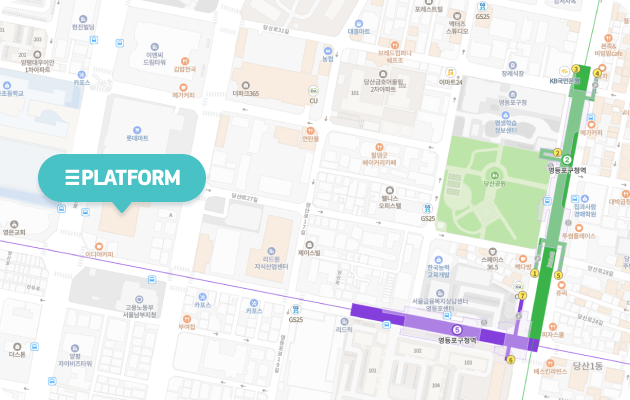
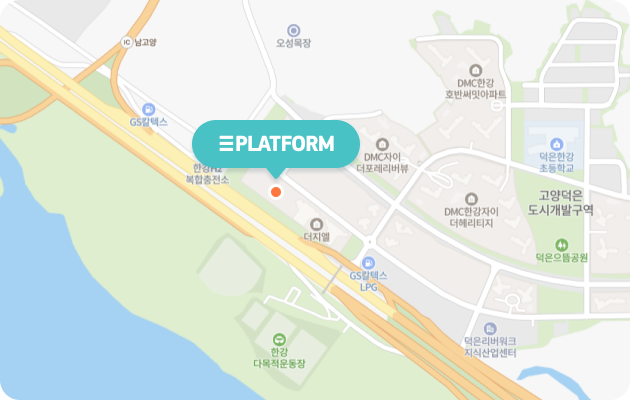
update address in contact page

diff --git a/src/components/contactUs/Contact.jsx b/src/components/contactUs/Contact.jsx
@@ -59,8 +59,7 @@ const Contact = ({ modalStatus, setModalStatus }) => {
 
         <ContactTextsLinkBox
           mainText={'오시는 길'}
-          subText={'서울시 영등포구 선유로 130, 에이스 하이테크시티3차 409호'}
-          mobile_subText={'서울시 영등포구 선유로 130,\n 에이스 하이테크시티3차 409호'}
+          subText={'경기도 고양시 덕양구 청초로 10 B동 1112호'}
           popupText={'지도 보기'}
           clickOption={'map'}
         />
@@ -76,7 +75,8 @@ const Contact = ({ modalStatus, setModalStatus }) => {
               <img className="subway" src={`${process.env.PUBLIC_URL}/assets/images/contact/subway.png`} alt="" />
             </div>
             <p>
-              <span>지하철</span> : 2호선 영등포구청역 / 5호선 영등포구청역, 양평역
+              {/* <span>지하철</span> : 2호선 영등포구청역 / 5호선 영등포구청역, 양평역 */}
+              <span>지하철</span> : 6호선 디지털미디어시티
             </p>
           </TransportationWrapper>
           <TransportationWrapper>
@@ -84,7 +84,8 @@ const Contact = ({ modalStatus, setModalStatus }) => {
               <img className="bus" src={`${process.env.PUBLIC_URL}/assets/images/contact/bus.png`} alt="" />
             </div>
             <p>
-              <span>버스</span> : 영등포 02, 영등포 05, 7612번
+              {/* <span>버스</span> : 영등포 02, 영등포 05, 7612번 */}
+              <span>버스</span> : 지선 7726, 마을 022B
             </p>
           </TransportationWrapper>
         </div>

diff --git a/src/components/contactUs/TransportationWrapper.jsx b/src/components/contactUs/TransportationWrapper.jsx
@@ -5,7 +5,7 @@ const StyledTransportationWrapper = styled.div`
   @media (min-width: 1025px) {
     display: flex;
     margin-right: ${(props) => {
-      if (props.$pcMarginRight) return 'var(--pc-120px)';
+      if (props.$pcMarginRight) return 'clamp(0px, 17.29vw, 332px)';
     }};
     .imgWrapper {
       text-align: center;
